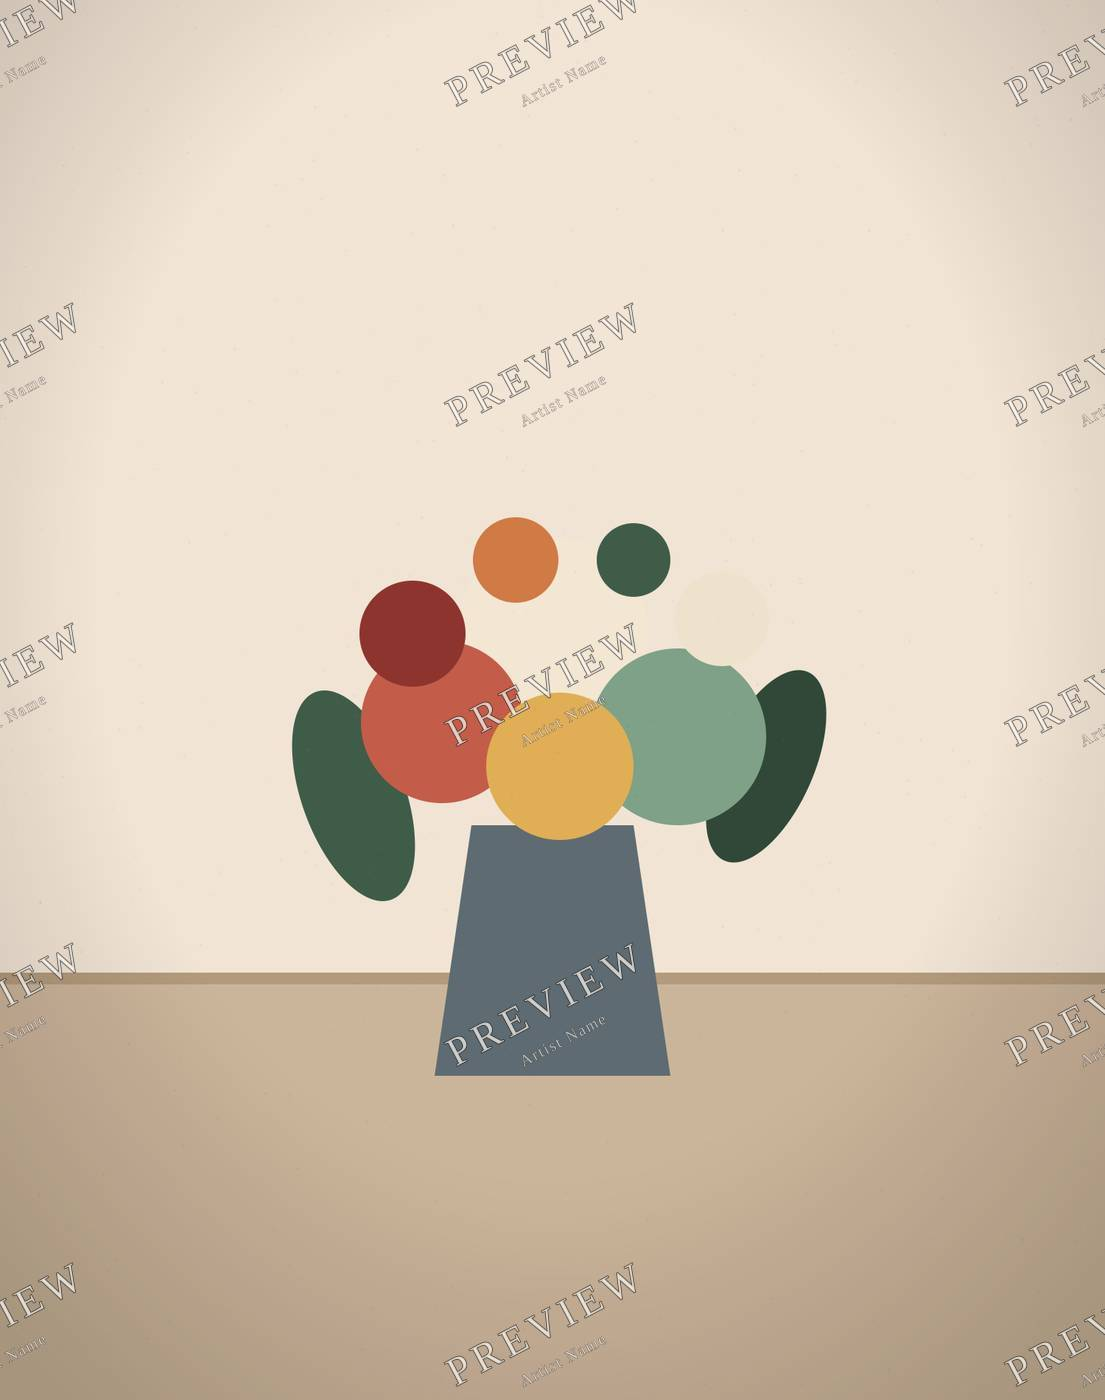
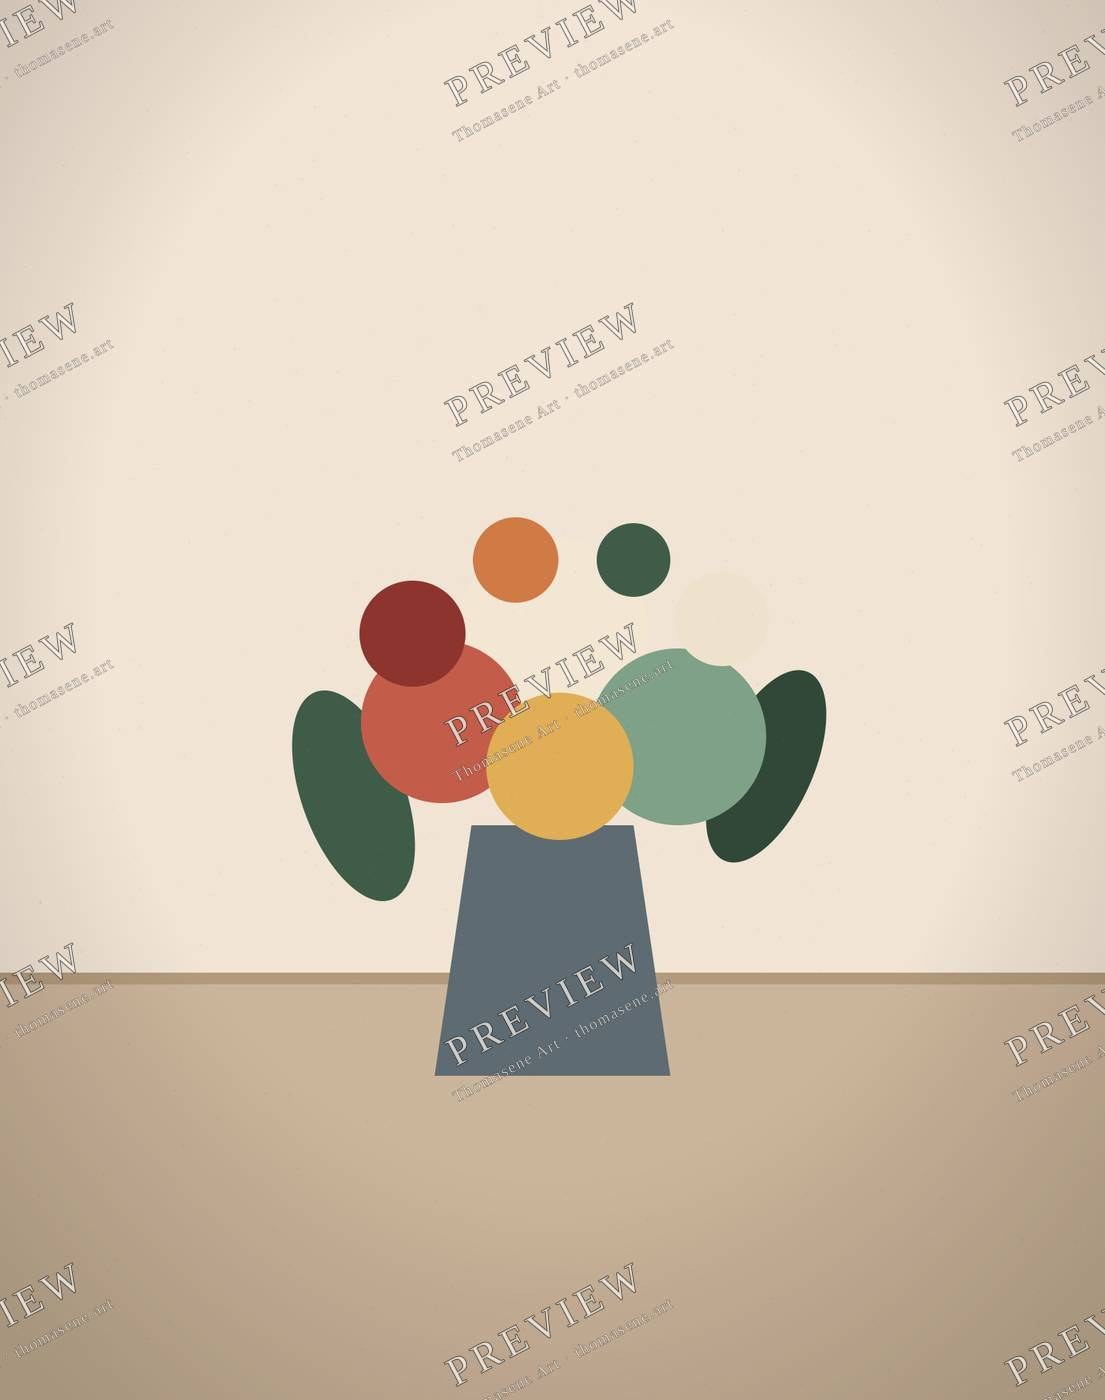
Use the Thomasene Art name from the current site.
The catalog now carries the studio name, tagline, and domain from thomasene.art, and the sample watermarks match.

diff --git a/src/app/about/page.tsx b/src/app/about/page.tsx
@@ -3,7 +3,7 @@ import { emailIsPublic, site } from "@/lib/site";
 
 export const metadata: Metadata = {
   title: "About",
-  description: "About the studio and the watermarked previews.",
+  description: `${site.artistName}. ${site.tagline}.`,
 };
 
 export default function AboutPage() {
@@ -14,11 +14,14 @@ export default function AboutPage() {
       {site.biography ? (
         <p className="mt-6 max-w-prose text-lg leading-relaxed">{site.biography}</p>
       ) : (
-        <p className="mt-6 max-w-prose leading-relaxed">
-          {site.artistName} makes paintings and drawings. A short biography can be added
-          here when it is ready to be written in the artist’s own voice.
-        </p>
+        <p className="mt-6 max-w-prose text-lg leading-relaxed">{site.tagline}.</p>
       )}
+      {!site.biography ? (
+        <p className="mt-4 max-w-prose text-sm leading-relaxed text-muted-foreground">
+          A longer account of the work can be added here when it is ready to be written
+          in the artist’s own voice.
+        </p>
+      ) : null}
 
       <h2 className="mt-14 font-heading text-3xl italic">The files</h2>
       <p className="mt-4 text-sm leading-relaxed text-muted-foreground">
@@ -26,9 +29,10 @@ export default function AboutPage() {
         with a watermark repeated across it, and the camera information is removed.
       </p>
 
-      <h2 className="mt-14 font-heading text-3xl italic">Where to write</h2>
+      <h2 className="mt-14 font-heading text-3xl italic">Drop us a line</h2>
       <p className="mt-4 text-sm leading-relaxed">
-        {site.location}
+        {site.domain}
+        {site.location ? ` · ${site.location}` : ""}
         {emailIsPublic() ? (
           <>
             {" "}
@@ -40,7 +44,7 @@ export default function AboutPage() {
         ) : (
           <span className="text-muted-foreground">
             {" "}
-            · The public email address has not been set yet.
+            · A public email address has not been added yet.
           </span>
         )}
       </p>

diff --git a/src/components/site-footer.tsx b/src/components/site-footer.tsx
@@ -12,7 +12,12 @@ export function SiteFooter() {
       <div className="mx-auto flex max-w-6xl flex-col gap-8 px-5 py-10 sm:flex-row sm:items-end sm:justify-between">
         <div>
           <p className="font-heading text-2xl italic">{site.artistName}</p>
-          <p className="mt-1 text-sm text-muted-foreground">{site.location}</p>
+          {site.location ? (
+            <p className="mt-1 text-sm text-muted-foreground">{site.location}</p>
+          ) : null}
+          {site.domain ? (
+            <p className="mt-1 text-sm text-muted-foreground">{site.domain}</p>
+          ) : null}
           {emailIsPublic() ? (
             <a
               className="mt-2 inline-block text-sm underline-offset-4 hover:underline"
@@ -35,8 +40,8 @@ export function SiteFooter() {
         </nav>
       </div>
       <p className="mx-auto max-w-6xl px-5 pb-10 text-xs leading-relaxed text-muted-foreground">
-        Pictures on this site are reduced, watermarked previews. The full photographs are
-        not published.
+        © {site.artistName}. All rights reserved. Pictures on this site are reduced,
+        watermarked previews. The full photographs are not published.
       </p>
     </footer>
   );

diff --git a/src/app/page.tsx b/src/app/page.tsx
@@ -105,10 +105,10 @@ export default function HomePage() {
           </li>
           <li>
             <p className="text-xs tracking-[0.18em] text-muted-foreground uppercase">03</p>
-            <h3 className="mt-2 font-heading text-2xl italic">A biography</h3>
+            <h3 className="mt-2 font-heading text-2xl italic">A way to write</h3>
             <p className="mt-2 text-sm leading-relaxed text-muted-foreground">
-              The about page holds a short account of the work, and a way to write, once
-              those are filled in.
+              The about page carries the studio’s line, and a place to send a note once
+              an email address is added.
             </p>
           </li>
         </ol>

diff --git a/src/app/layout.tsx b/src/app/layout.tsx
@@ -23,7 +23,7 @@ export const metadata: Metadata = {
     default: site.artistName,
     template: `%s · ${site.artistName}`,
   },
-  description: site.intro,
+  description: site.tagline,
   robots: {
     index: true,
     follow: true,
